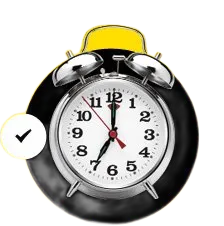
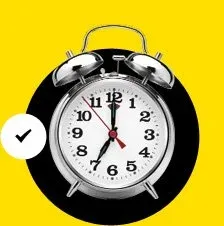
Updates

diff --git a/index.html b/index.html
@@ -5,8 +5,8 @@
 		<meta name="viewport" content="width=device-width, initial-scale=1.0">
 		<link rel="shortcut icon" href="./assets/img/favicon.ico">
 		<title>Home Page</title>
-		<script type="module" crossorigin="" src="./js/index.min.js?v=1756644105877"></script>
-		<link rel="stylesheet" crossorigin="" href="./css/index.min.css?v=1756644105877">
+		<script type="module" crossorigin="" src="./js/index.min.js?v=1756644973248"></script>
+		<link rel="stylesheet" crossorigin="" href="./css/index.min.css?v=1756644973248">
 	</head>
 	<body>
 		<div class="wrapper">
@@ -1602,19 +1602,19 @@ class="quantity__button quantity__button--plus"
 						<div class="advantages__items">
 							<div class="advantages__item">
 								<div class="advantages__item-image">
-									<img alt="#" src="./assets/img/advantages/01.webp">
+									<img loading="lazy" alt="#" src="./assets/img/advantages/01.webp">
 								</div>
 								<p class="advantages__item-text">Наши грузчики умеют обращаться с хрупкими предметами</p>
 							</div>
 							<div class="advantages__item">
 								<div class="advantages__item-image">
-									<img alt="#" src="./assets/img/advantages/02.webp">
+									<img loading="lazy" alt="#" src="./assets/img/advantages/02.webp">
 								</div>
 								<p class="advantages__item-text">Наши грузчики умеют обращаться с хрупкими предметами</p>
 							</div>
 							<div class="advantages__item">
 								<div class="advantages__item-image">
-									<img alt="#" src="./assets/img/advantages/03.webp">
+									<img loading="lazy" alt="#" src="./assets/img/advantages/03.webp">
 								</div>
 								<p class="advantages__item-text">Наши грузчики умеют обращаться с хрупкими предметами</p>
 							</div>
@@ -1682,6 +1682,8 @@ class="quantity__button quantity__button--plus"
 								<a class="gallery__item" href="./assets/img/foto/01.webp">
 									<img alt="" src="./assets/img/foto/01.webp">
 								</a>
+								ss="gallery__item" href="@img/foto/01.jpg">
+								<img src="assets/img/foto/01.jpg" alt="">
 							</div>
 						</div>
 					</div>
